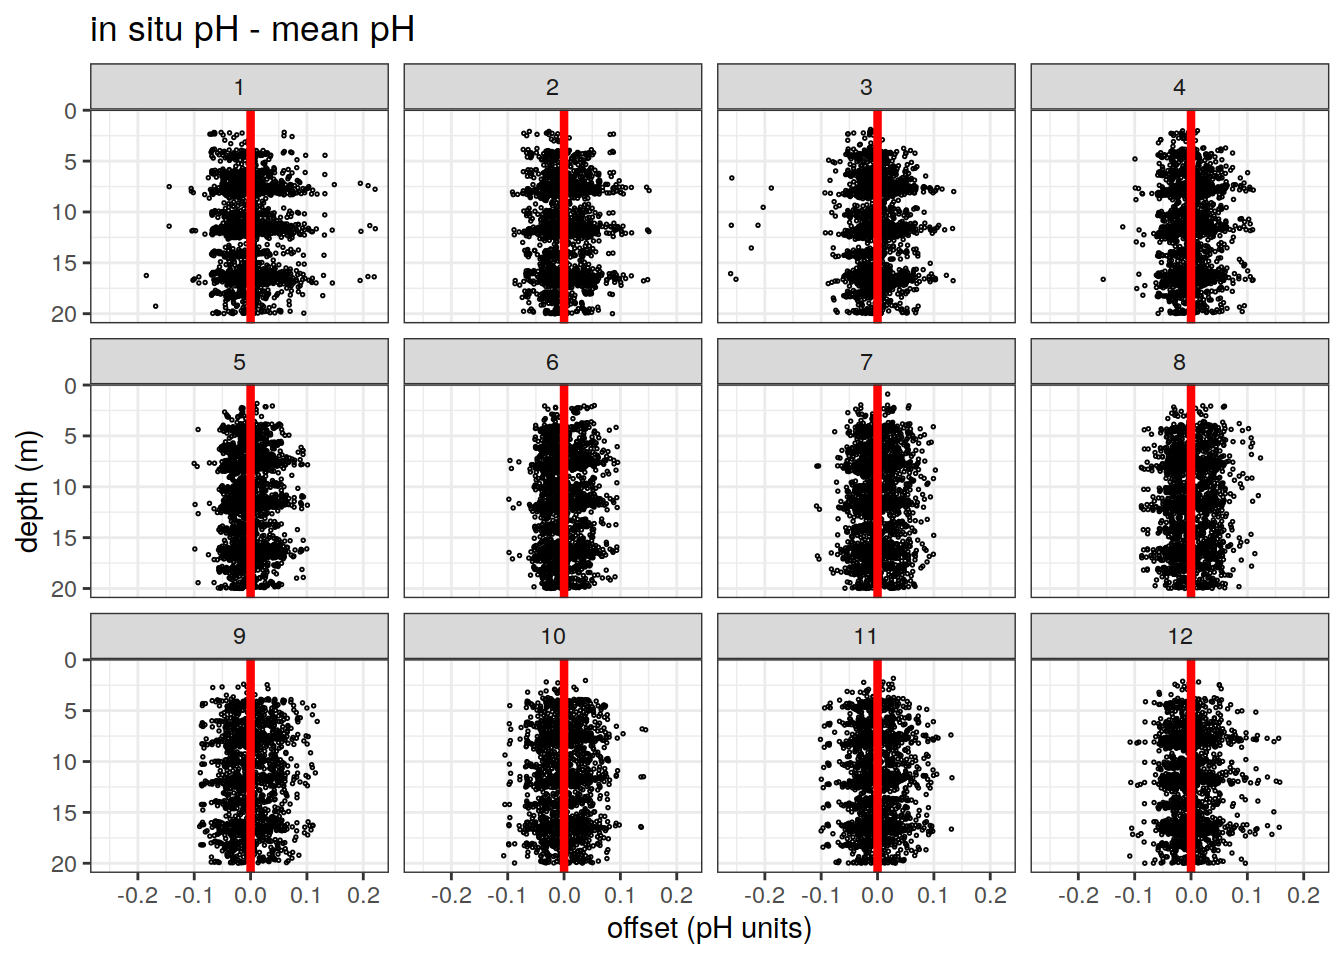
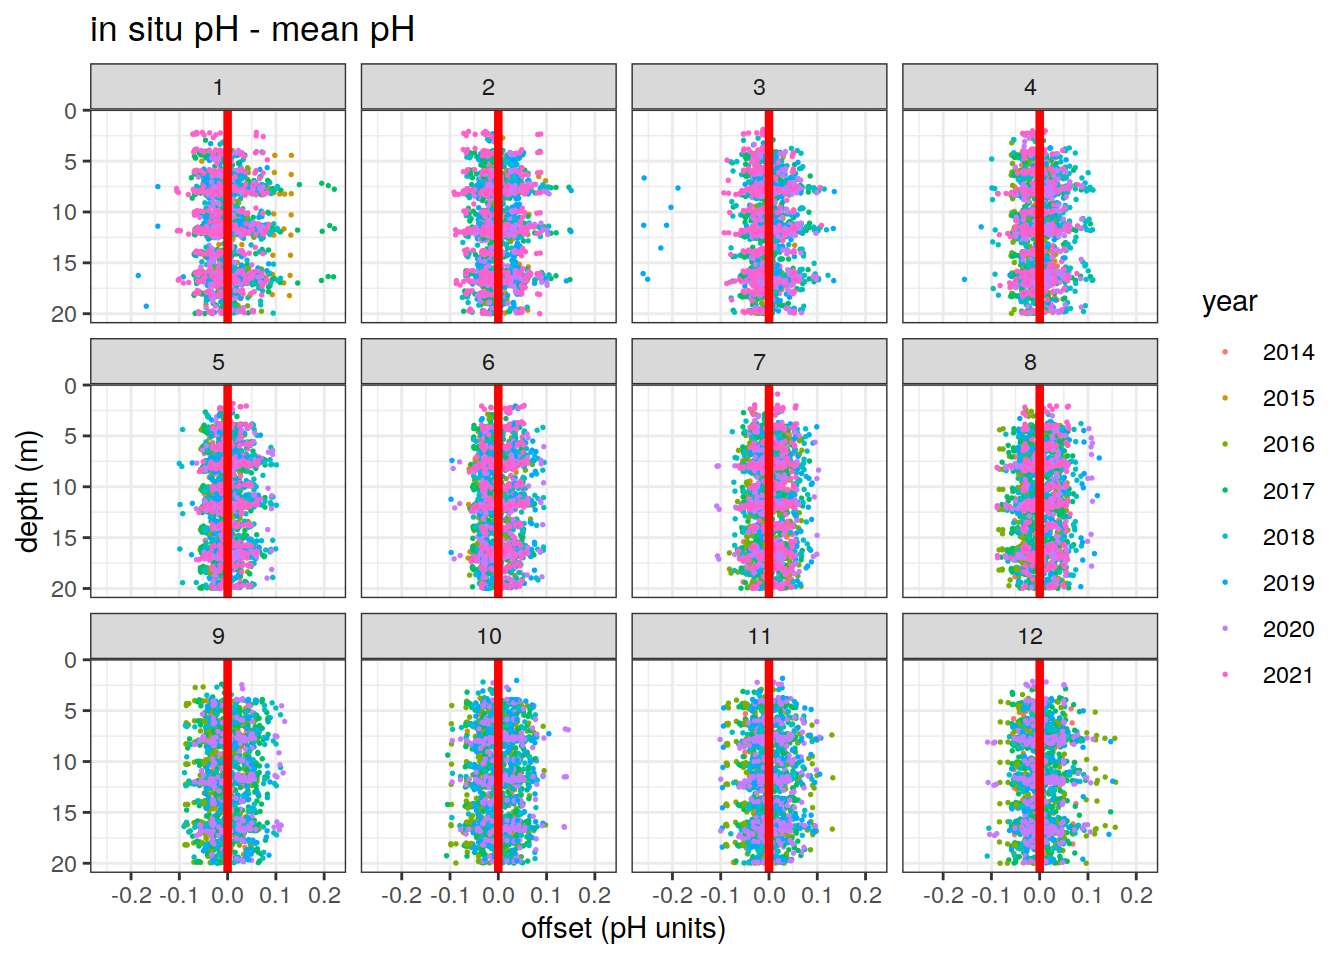
Build site.

Changed region(s): [[0.0938, 0.0625, 1.0, 1.0], [0.5, 0.625, 0.5625, 0.6875]]

diff --git a/docs/ph_data.html b/docs/ph_data.html
@@ -524,16 +524,16 @@ This reproducible <a href="http://rmarkdown.rstudio.com">R Markdown</a> analysis
 <div class="panel panel-default">
 <div class="panel-heading">
 <p class="panel-title">
-<a data-toggle="collapse" data-parent="#workflowr-checks" href="#strongRepositoryversionstrongahrefhttpsgithubcomjensdanielmuellerbgcargorargodatatreeae64132ed7a5ba0b3bb32e3389f403321e67aa8dtargetblankae64132a"> <span class="glyphicon glyphicon-ok text-success" aria-hidden="true"></span> <strong>Repository version:</strong> <a href="https://github.com/jens-daniel-mueller/bgc_argo_r_argodata/tree/ae64132ed7a5ba0b3bb32e3389f403321e67aa8d" target="_blank">ae64132</a> </a>
+<a data-toggle="collapse" data-parent="#workflowr-checks" href="#strongRepositoryversionstrongahrefhttpsgithubcomjensdanielmuellerbgcargorargodatatreefd6ef5af4e358f9e43102c52b24ea63d9e5377e8targetblankfd6ef5aa"> <span class="glyphicon glyphicon-ok text-success" aria-hidden="true"></span> <strong>Repository version:</strong> <a href="https://github.com/jens-daniel-mueller/bgc_argo_r_argodata/tree/fd6ef5af4e358f9e43102c52b24ea63d9e5377e8" target="_blank">fd6ef5a</a> </a>
 </p>
 </div>
[2 lines of base64/hex data omitted]
 <div class="panel-body">
 <p>
 Great! You are using Git for version control. Tracking code development and connecting the code version to the results is critical for reproducibility.
 </p>
 <p>
-The results in this page were generated with repository version <a href="https://github.com/jens-daniel-mueller/bgc_argo_r_argodata/tree/ae64132ed7a5ba0b3bb32e3389f403321e67aa8d" target="_blank">ae64132</a>. See the <em>Past versions</em> tab to see a history of the changes made to the R Markdown and HTML files.
+The results in this page were generated with repository version <a href="https://github.com/jens-daniel-mueller/bgc_argo_r_argodata/tree/fd6ef5af4e358f9e43102c52b24ea63d9e5377e8" target="_blank">fd6ef5a</a>. See the <em>Past versions</em> tab to see a history of the changes made to the R Markdown and HTML files.
 </p>
 <p>
 Note that you need to be careful to ensure that all relevant files for the analysis have been committed to Git prior to generating the results (you can use <code>wflow_publish</code> or <code>wflow_git_commit</code>). workflowr only checks the R Markdown file, but you know if there are other scripts or data files that it depends on. Below is the status of the Git repository when the results were generated:
@@ -586,6 +586,40 @@ Message
 </tr>
 </thead>
 <tbody>
+<tr>
+<td>
+Rmd
+</td>
+<td>
+<a href="https://github.com/jens-daniel-mueller/bgc_argo_r_argodata/blob/fd6ef5af4e358f9e43102c52b24ea63d9e5377e8/analysis/ph_data.Rmd" target="_blank">fd6ef5a</a>
+</td>
+<td>
+pasqualina-vonlanthendinenna
+</td>
+<td>
+2021-11-19
+</td>
+<td>
+changed offset plot
+</td>
+</tr>
+<tr>
+<td>
+html
+</td>
+<td>
+<a href="https://rawcdn.githack.com/jens-daniel-mueller/bgc_argo_r_argodata/578ae8c3d35ad02e6c511846ece974d1aeed570c/docs/ph_data.html" target="_blank">578ae8c</a>
+</td>
+<td>
+pasqualina-vonlanthendinenna
+</td>
+<td>
+2021-11-19
+</td>
+<td>
+Build site.
+</td>
+</tr>
 <tr>
 <td>
 Rmd
@@ -930,16 +964,15 @@ ph_surface_SO &lt;- ph_surface_2x2 %&gt;%
   filter(lat &lt;= -30)
 
 # check the correct latitudes, QC flags, and depth levels have been filtered
- max(ph_surface_SO$lat)</code></pre>
-<pre><code>[1] -31.5</code></pre>
-<pre class="r"><code># min(ph_surface$lat)
-# table(ph_surface$ph_in_situ_total_adjusted_qc)
-# max(ph_surface$depth)
-# min(ph_surface$date)
-# max(ph_surface$date)</code></pre>
+# max(ph_surface_SO$lat)
+# min(ph_surface_SO$lat)
+# table(ph_surface_SO$ph_in_situ_total_adjusted_qc)
+# max(ph_surface_SO$depth)
+# min(ph_surface_SO$date)
+# max(ph_surface_SO$date)</code></pre>
 <div id="data-offset-with-depth" class="section level4">
 <h4>Data offset with depth</h4>
-<p>Plot the difference between in-situ observed pH and the mean surface pH (20m)</p>
+<p>Plot the difference between in-situ observed pH and the mean surface pH (20m) for each depth level</p>
 <pre class="r"><code>ph_SO &lt;- ph_surface_SO %&gt;%
   group_by(month) %&gt;%
   summarise(ph_month_ave = mean(ph_in_situ_total_adjusted))   # mean pH in top 20 m for each month
@@ -950,14 +983,52 @@ ph_SO = full_join(ph_SO, ph_surface_SO, by = &#39;month&#39;) %&gt;%
 
 ph_SO %&gt;%
   ggplot()+
-  geom_jitter(aes(x = offset, y = depth), size = 0.3, pch = 1) +
+  geom_jitter(aes(x = offset, y = depth, col = as.character(year)), size = 0.3, pch = 19) +
   scale_y_reverse()+
   geom_vline(xintercept = 0, col = &#39;red&#39;, size = 1.5)+
   facet_wrap(~month)+
   labs(x = &#39;offset (pH units)&#39;,
        y = &#39;depth (m)&#39;,
+       col = &#39;year&#39;,
        title = &#39;in situ pH - mean pH&#39;)</code></pre>
 <p><img src="figure/ph_data.Rmd/SO_offset_from_the_mean-1.png" width="672" style="display: block; margin: auto;" /></p>
+<p>
+<button type="button" class="btn btn-default btn-xs btn-workflowr btn-workflowr-fig" data-toggle="collapse" data-target="#fig-SO_offset_from_the_mean-1">
+Past versions of SO_offset_from_the_mean-1.png
+</button>
+</p>
+<div id="fig-SO_offset_from_the_mean-1" class="collapse">
+<div class="table-responsive">
+<table class="table table-condensed table-hover">
+<thead>
+<tr>
+<th>
+Version
+</th>
+<th>
+Author
+</th>
+<th>
+Date
+</th>
+</tr>
+</thead>
+<tbody>
+<tr>
+<td>
+<a href="https://github.com/jens-daniel-mueller/bgc_argo_r_argodata/blob/578ae8c3d35ad02e6c511846ece974d1aeed570c/docs/figure/ph_data.Rmd/SO_offset_from_the_mean-1.png" target="_blank">578ae8c</a>
+</td>
+<td>
+pasqualina-vonlanthendinenna
+</td>
+<td>
+2021-11-19
+</td>
+</tr>
+</tbody>
+</table>
+</div>
+</div>
 </div>
 <div id="monthly-climatological-map" class="section level4">
 <h4>Monthly climatological map</h4>
